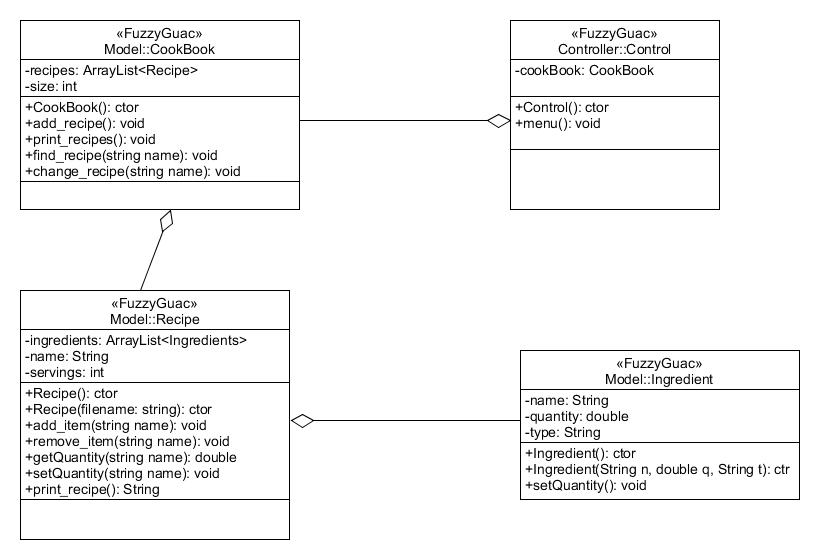
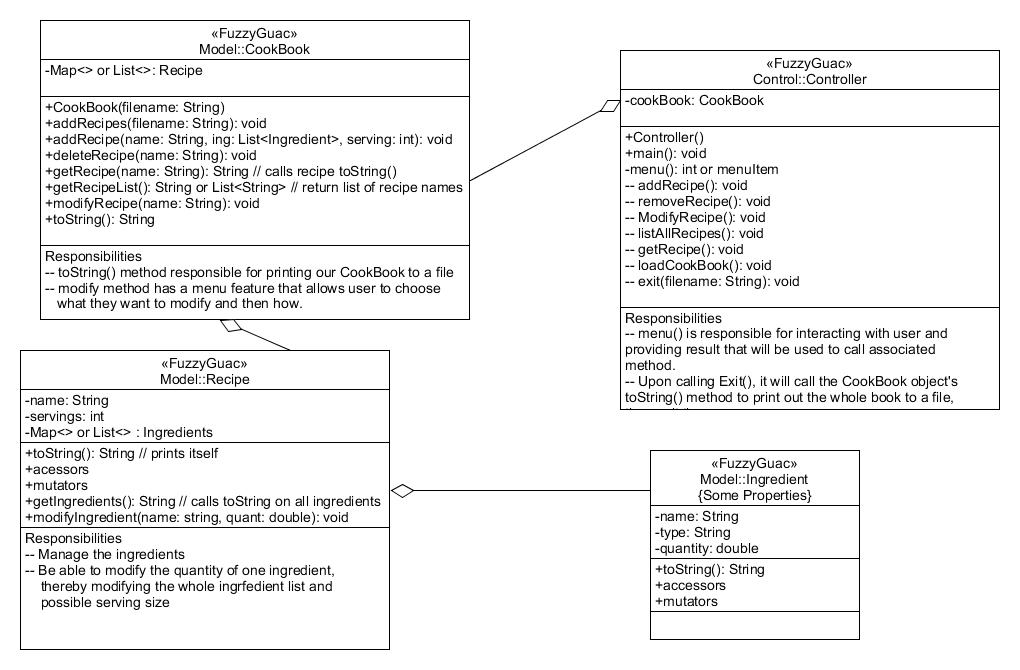
Starting Point for Collaboration

diff --git a/src/control/Controller.java b/src/control/Controller.java
@@ -1,0 +1,5 @@
+package control;
+
+public class Controller {
+
+}

diff --git a/src/model/CookBook.java b/src/model/CookBook.java
@@ -1,0 +1,6 @@
+package model;
+
+public class CookBook {
+	
+
+}

diff --git a/src/model/Ingredient.java b/src/model/Ingredient.java
@@ -1,0 +1,5 @@
+package model;
+
+public class Ingredient {
+	
+}

diff --git a/src/model/Recipe.java b/src/model/Recipe.java
@@ -1,0 +1,5 @@
+package model;
+public class Recipe {
+	
+	
+}
